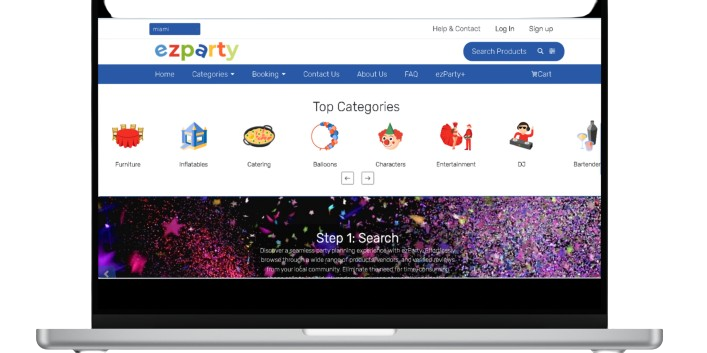
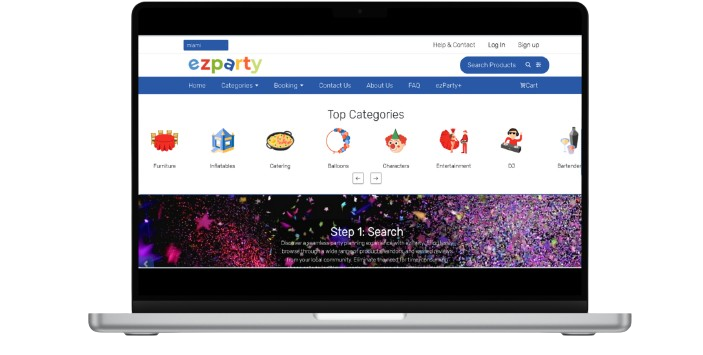
add inventory

diff --git a/src/Components/ProjectBox.js b/src/Components/ProjectBox.js
@@ -9,9 +9,9 @@ const  ProjectBox = ({projectPhoto, projectName}) => {
     TindogGithub : "https://github.com/DevanshSahni/tindog",
     TindogWebsite : "https://devanshsahni.github.io/tindog/",
 
-    RogFreeDesc : "A website that shows you over seven specialized yoga postures for specific diseases or health problems. This was a group project made in a team of two for a 36-hour-long online hackathon named Hackodisha 2.0.",
-    RogFreeGithub : "https://github.com/DevanshSahni/Rog-Free",
-    RogFreeWebsite : "https://devanshsahni.github.io/Rog-Free/",
+    InventoryDesc : "This is a responsive inventory management system built in MERN stack, featuring JWT token-based authentication. I also deployed it using GitHub Pages.",
+    InventoryGithub : "https://github.com/im-abubakar/Inventory-management-system",
+    InventoryWebsite : "https://inventory-managment-sys.netlify.app/",
 
     EzPartyDesc:"Welcome to EzParty, the premier platform for booking top event services in your city. The site connects users with the best local vendors for weddings, parties, and more. Start planning the perfect event today with EzParty!",
     EzPartyGithub:"",  

diff --git a/src/Components/Projects.js b/src/Components/Projects.js
@@ -1,18 +1,18 @@
 import React from 'react';
 import ProjectBox from './ProjectBox';
 import OneezPartyImage from '../images/OneezPartyImage.png';
-import RogfreeImage from '../images/RogfreeImage.png';
+// import RogfreeImage from '../images/RogfreeImage.png';
 import TindogImage from '../images/TindogImage.png';
-import BloodImage from '../images/BloodImage.png';
+import InventoryImage from '../images/inventory.png';
 
 const Projects = () => {
   return (
     <div>
       <h1 className='projectHeading'>My <b>Projects</b></h1>
       <div className='project'>
-        <ProjectBox projectPhoto={BloodImage} projectName="Blood Donation" />
+        <ProjectBox projectPhoto={InventoryImage} projectName="Inventory" />
         <ProjectBox projectPhoto={OneezPartyImage} projectName="EzParty" />
-        <ProjectBox projectPhoto={RogfreeImage} projectName="RogFree" />
+        <ProjectBox projectPhoto={InventoryImage} projectName="Inventory Management System" />
         <ProjectBox projectPhoto={TindogImage} projectName="Tindog" />
       </div>
 
